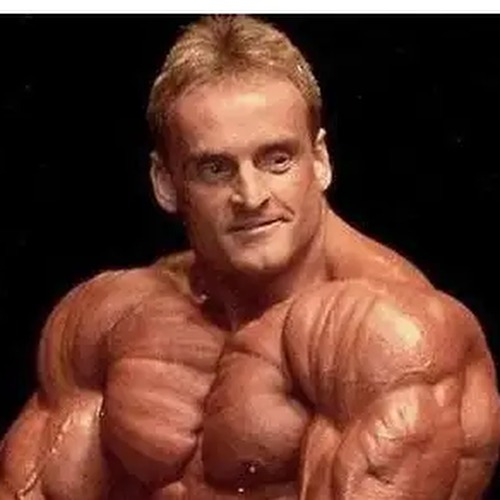
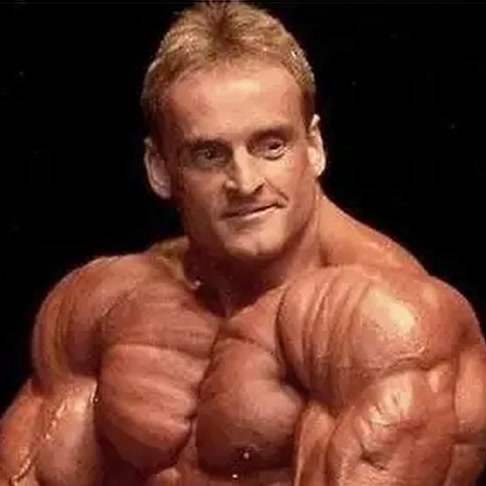
Crop the white top edge off the reveal portrait
Claude-Session: https://claude.ai/code/session_01BygtngU7h7gbhevKaXJDZs

diff --git a/src/munzer/media.ts b/src/munzer/media.ts
@@ -37,7 +37,7 @@ export const clipSrc = (id: ClipId): string =>
   staticFile(`munzer/clips/${CLIPS[id].file}`);
 
 export const PHOTOS = {
-  "portrait-smile": { w: 500, h: 500 },
+  "portrait-smile": { w: 486, h: 486 },
   "legpress-bw": { w: 588, h: 834 },
   "backstage-15": { w: 2263, h: 1200 },
   "side-chest-stage": { w: 590, h: 838 },

diff --git a/public/munzer/SOURCES.md b/public/munzer/SOURCES.md
@@ -33,7 +33,7 @@ YouTube was not used: it refuses downloads from this cloud environment.
 
 | File | Source |
 | --- | --- |
-| `portrait-smile.jpg` | https://fitnessvolt.com/apis/bodybuilding/public/images/athletes/8202-andreas-munzer.jpg |
+| `portrait-smile.jpg` | https://fitnessvolt.com/apis/bodybuilding/public/images/athletes/8202-andreas-munzer.jpg (white top edge cropped off) |
 | `legpress-bw.jpg` | https://generationiron.com/wp-content/uploads/2022/11/munzer-legs.jpg |
 | `backstage-15.jpg` | https://generationiron.com/wp-content/uploads/2022/11/munzer-pose.jpg |
 | `side-chest-stage.jpg` | https://generationiron.com/wp-content/uploads/2022/11/munzer.jpg |
